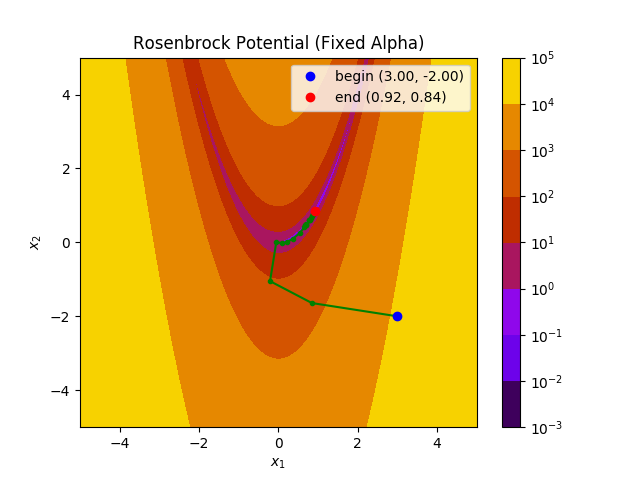
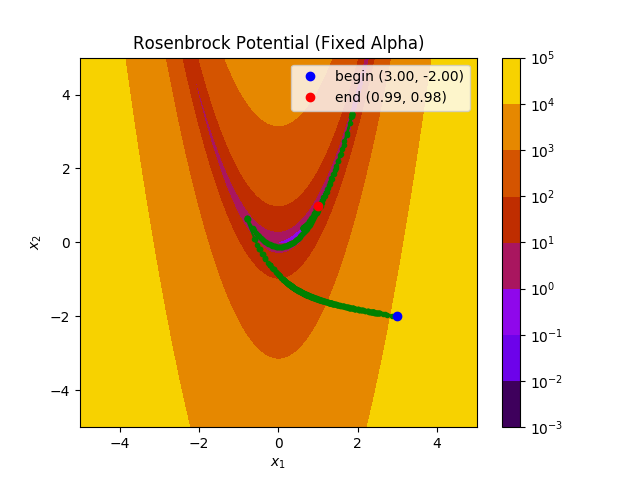
hw3: backup

Changed region(s): [[0.375, 0.2188, 0.5938, 0.6562], [0.5938, 0.1875, 0.7188, 0.2188], [0.5938, 0.6562, 0.625, 0.6875]]

diff --git a/HW03/pb2/3_quad/cg.py b/HW03/pb2/3_quad/cg.py
@@ -43,7 +43,7 @@ def get_proper_alpha(x1_0, x2_0, pk):
             x1_alpha1 = x1_0 + alpha1 * pk[0]
             x2_alpha1 = x2_0 + alpha1 * pk[1]
             phi_alpha0 = func(x1_alpha0, x2_alpha0)
-            phi_alpha1 = func(x1_alpha1, x2_alpha1)            
+            phi_alpha1 = func(x1_alpha1, x2_alpha1)
 
             alpha_matrix = np.array([[alpha0**2, -alpha1**2], [-alpha0**3, alpha1**3]])
             phi_matrix = np.array([phi_alpha1 - phi_0 - alpha1*phi_d0, phi_alpha0 - phi_0 - alpha0*phi_d0])
@@ -51,12 +51,11 @@ def get_proper_alpha(x1_0, x2_0, pk):
             a, b = ab[0], ab[1]
             try:
                 alpha2 = (-b + math.sqrt(b**2-3*a*phi_d0))/(3*a)
-                print("large!")
             except ValueError:
-                alpha2 = -b/(3*a)
-                # alpha2 = alpha1/2
+                # alpha2 = (-b)/(3*a)
+                alpha2 = alpha1/2
+                print("large!")
             print(alpha1, alpha2)
-            # alpha2 = (-b + math.sqrt(b**2-3*a*phi_d0))/(3*a)
             if phi_alpha0 <= phi_0 + C * alpha2 * phi_d0:
                 alphak = alpha2
                 break

diff --git a/HW03/pb2/3_quad/sd.py b/HW03/pb2/3_quad/sd.py
@@ -43,7 +43,7 @@ def get_proper_alpha(x1_0, x2_0, pk):
             x1_alpha1 = x1_0 + alpha1 * pk[0]
             x2_alpha1 = x2_0 + alpha1 * pk[1]
             phi_alpha0 = func(x1_alpha0, x2_alpha0)
-            phi_alpha1 = func(x1_alpha1, x2_alpha1)            
+            phi_alpha1 = func(x1_alpha1, x2_alpha1)
 
             alpha_matrix = np.array([[alpha0**2, -alpha1**2], [-alpha0**3, alpha1**3]])
             phi_matrix = np.array([phi_alpha1 - phi_0 - alpha1*phi_d0, phi_alpha0 - phi_0 - alpha0*phi_d0])
@@ -51,12 +51,11 @@ def get_proper_alpha(x1_0, x2_0, pk):
             a, b = ab[0], ab[1]
             try:
                 alpha2 = (-b + math.sqrt(b**2-3*a*phi_d0))/(3*a)
-                print("large!")
             except ValueError:
-                # alpha2 = -b/(3*a)
+                # alpha2 = (-b)/(3*a)
                 alpha2 = alpha1/2
+                print("large!")
             print(alpha1, alpha2)
-            # alpha2 = (-b + math.sqrt(b**2-3*a*phi_d0))/(3*a)
             if phi_alpha0 <= phi_0 + C * alpha2 * phi_d0:
                 alphak = alpha2
                 break
